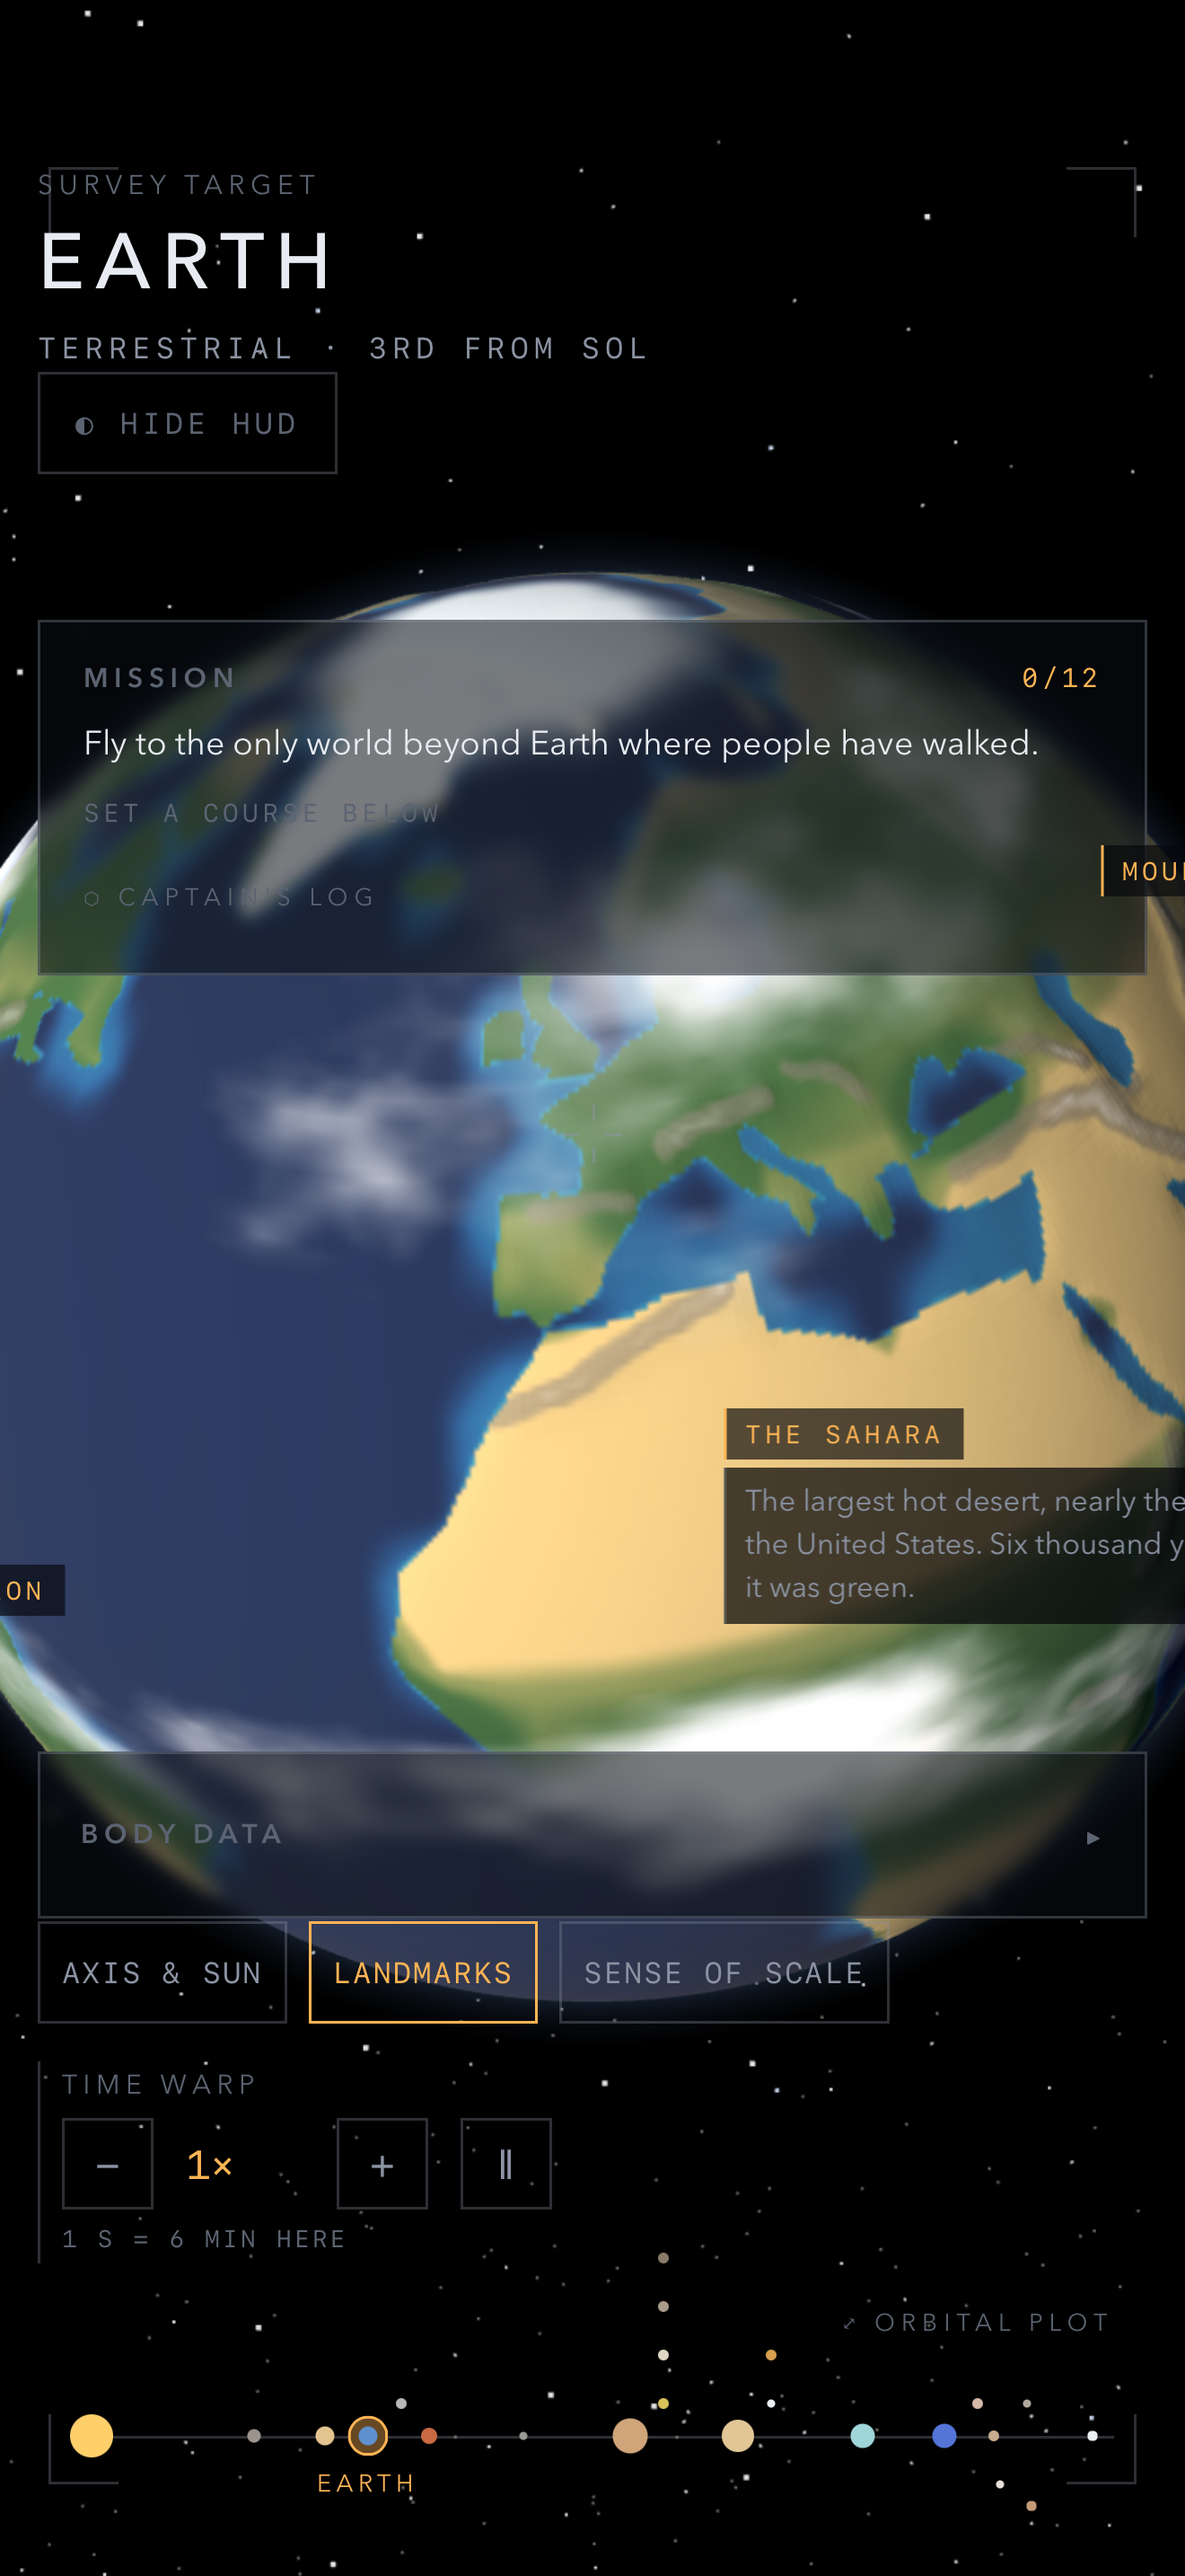
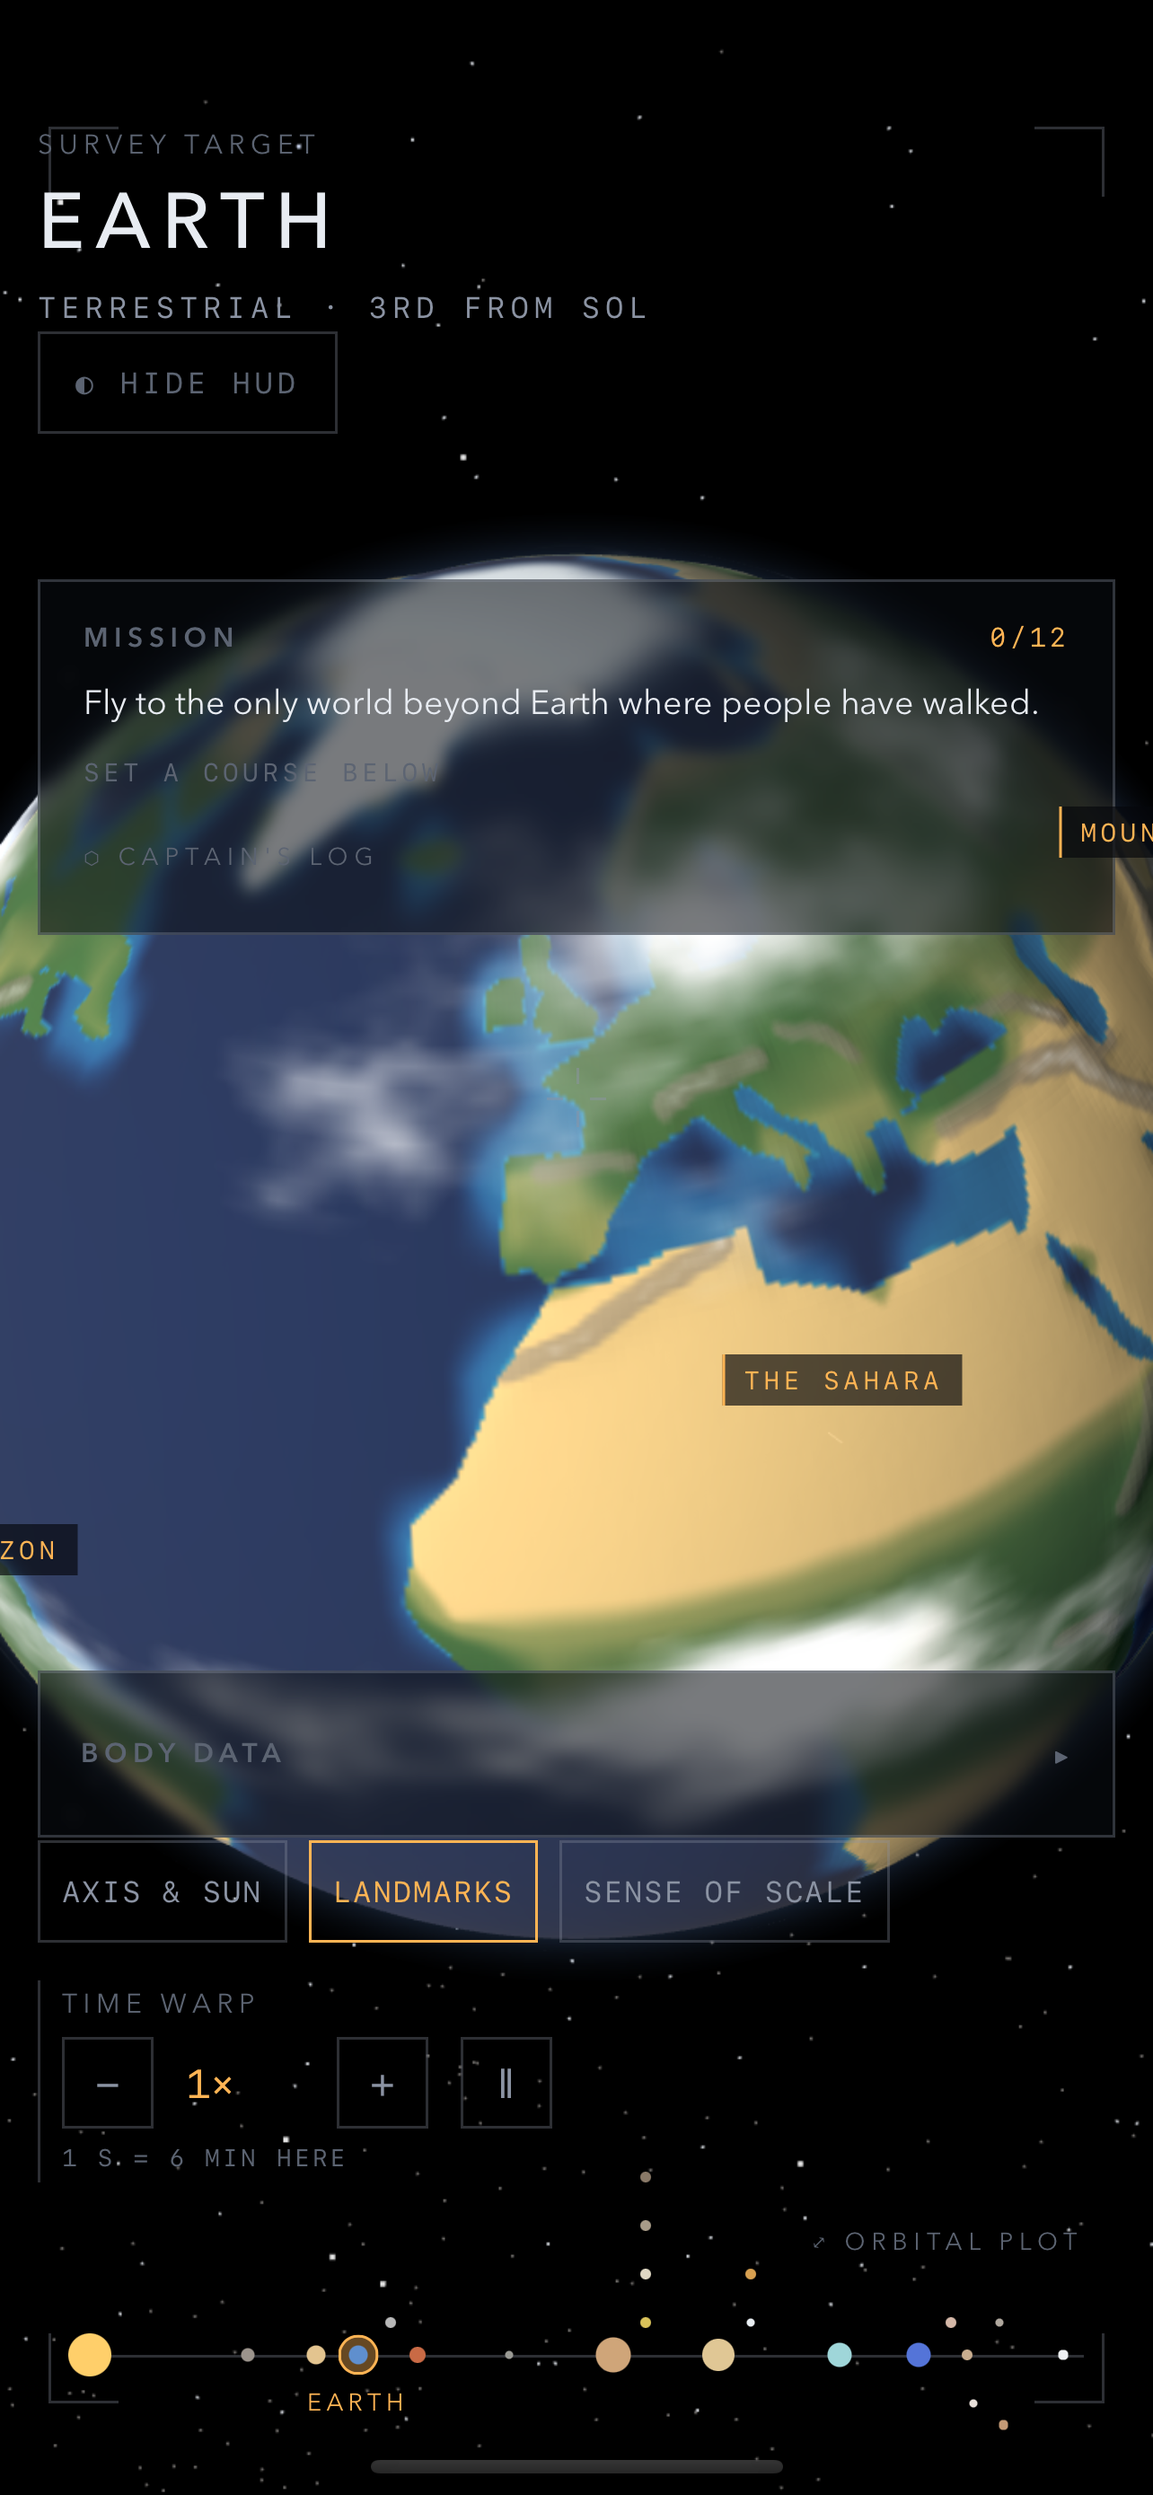
Re-shoot the iPhone set at 6.5 inches
The listing's iPhone slot takes 1242x2688 or 1284x2778 and refuses
1320x2868, which is the 6.9" size every current simulator hands you. None
of the iPhones Xcode ships by default is 6.5" any more, so the set is shot
on a simulator created for it — iPhone 14 Plus, 1284x2778 — through the
same harness and the same six compositions, and flattened like the rest.

diff --git a/CLAUDE.md b/CLAUDE.md
@@ -151,7 +151,7 @@ Capacitor 8 wrappers for Google Play (`mobile/android/`) and the App Store (`mob
 
 Play requires a privacy policy URL even for an app that collects nothing, and requires it again for the Families programme, which this app qualifies for by construction: no ads, no purchases, no accounts, no chat, no data. Both stores' answer sheets live beside the assets: `mobile/store/PLAY-LISTING.md` and `mobile/store/APP-STORE.md`, with `DECIDE` markers where the call is the owner's rather than the code's. The privacy policy is shared and is **not in this repo** — it is on the company site, one page per app.
 
-Phone screenshots for Play are captured from the real WebView by reconfiguring the emulator to phone geometry (`adb shell wm size 1080x2340 && adb shell wm density 420` → 411×891 CSS px, inside the 480px breakpoint), then padded to an exact 9:16 with black, which is invisible against the game's own sky. Apple's sizes do not transfer: it wants a 6.9" iPhone set and a 13" iPad set at the simulators' native pixel sizes, which is why they are shot separately with `xcrun simctl io <udid> screenshot`. **Both capture tools write RGBA and Apple refuses an alpha channel**, so every file is flattened (`-background black -alpha remove -alpha off -colorspace sRGB -strip`) before upload — and App Store Connect reports that refusal as a *dimensions* error on a file whose dimensions are exactly right, which is a long way to go to find one channel.
+Phone screenshots for Play are captured from the real WebView by reconfiguring the emulator to phone geometry (`adb shell wm size 1080x2340 && adb shell wm density 420` → 411×891 CSS px, inside the 480px breakpoint), then padded to an exact 9:16 with black, which is invisible against the game's own sky. Apple's sizes do not transfer: it wants a 6.5" iPhone set (1284×2778 — the 6.9" size a current simulator gives you is refused) and a 13" iPad set, which is why they are shot separately with `xcrun simctl io <udid> screenshot`. **Both capture tools write RGBA and Apple refuses an alpha channel**, so every file is flattened (`-background black -alpha remove -alpha off -colorspace sRGB -strip`) before upload — and App Store Connect reports that refusal as a *dimensions* error on a file whose dimensions are exactly right, which is a long way to go to find one channel.
 
 Every set is composed by a throwaway script appended to `www/index.html` that walks a list of `{body, camera, overlays}` specs, because neither platform lets the host drive the page. Getting the host and the page to agree on *when* to capture is the whole problem, and three things went wrong before it worked:
 - **A fixed schedule cannot be trusted.** `simctl io screenshot` and `adb exec-out screencap` each take a couple of seconds, so cumulative `sleep`s walk a whole window late over six shots; use absolute wall-clock targets. And the page's own clock has to start from something the host can predict — a fixed delay after load, not "when the first bake finished", which differs by seconds between a cold and a warm launch.

diff --git a/mobile/store/APP-STORE.md b/mobile/store/APP-STORE.md
@@ -15,12 +15,27 @@ Everything below can be filled in the moment the account opens.
 
 | File | Connect field | Spec | Status |
 |---|---|---|---|
-| `screenshots-iphone/*.png` | iPhone 6.9" screenshots | 1320×2868, 6 of them | ✅ |
+| `screenshots-iphone/*.png` | iPhone 6.5" screenshots | 1284×2778, 6 of them | ✅ |
 | `screenshots-ipad/*.png` | iPad 13" screenshots | 2752×2064 landscape, 6 of them | ✅ |
 | — | App icon | **not uploaded separately** — Connect takes the 1024px icon out of the build's asset catalogue | ✅ in build |
 
+**The iPhone slot this listing has is the 6.5" one**, which takes 1242×2688 or
+1284×2778 and *refuses* 1320×2868 — the 6.9" size, which is what a current
+simulator hands you. None of the iPhones Xcode ships by default is 6.5" any more,
+so the set is shot on a simulator created for it:
+
+```
+xcrun simctl create "PE 14 Plus" \
+  com.apple.CoreSimulator.SimDeviceType.iPhone-14-Plus \
+  com.apple.CoreSimulator.SimRuntime.iOS-18-5
+```
+
+(iPhone 14 Plus, 12/13 Pro Max → 1284×2778; iPhone 11 Pro Max, XS Max →
+1242×2688.) If Connect ever offers the 6.9" slot instead, re-shoot on an iPhone
+17 Pro Max — same harness, same six compositions.
+
 Apple's sizes do not overlap Play's at all, so these are shot separately, from the
-real WKWebView on the iPhone 17 Pro Max and iPad Pro 13-inch simulators. The six
+real WKWebView on that simulator and the iPad Pro 13-inch one. The six
 compositions are the same six ideas as the Play set: named landmarks on Earth,
 Valles Marineris in relief, Jupiter's bands, Saturn under the science layers, Io,
 and the sense-of-scale panel.
